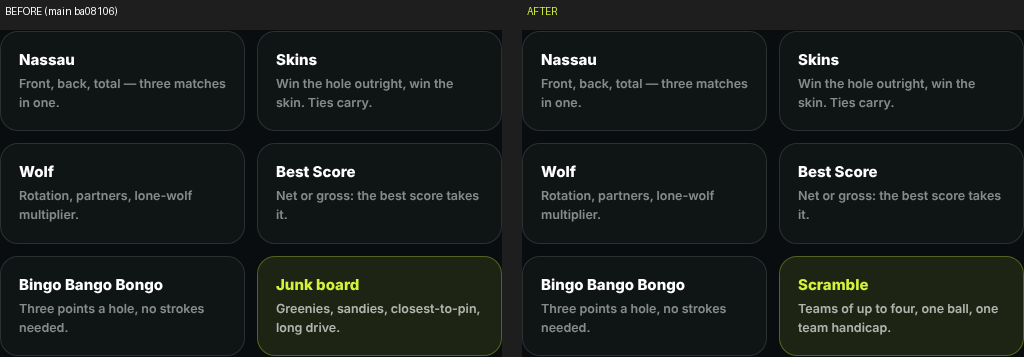
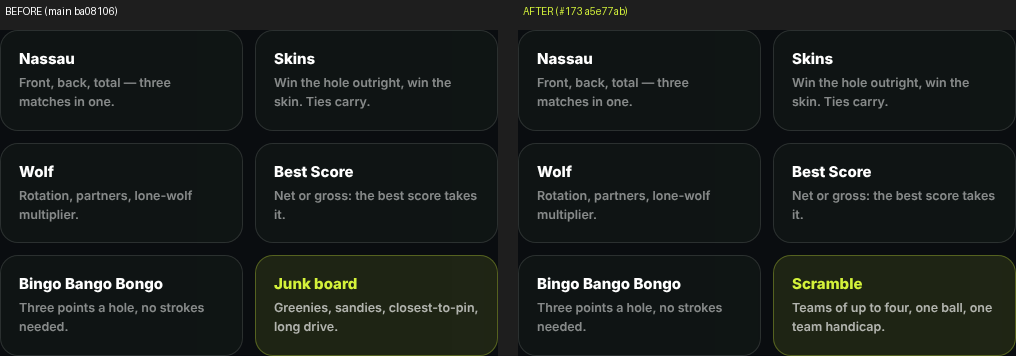
Refresh #173 screenshots after the owner's review round

diff --git a/README.md b/README.md
@@ -1,0 +1,8 @@
+# Screenshots for soleman23/golowebsite#173
+
+Before = `main` at ba08106. After = `fix/junk-board-overclaim` at a5e77ab, after the owner's review round.
+Production builds, 1440 px viewport; mockups captured by their accessible name, feature blocks by their kicker.
+
+- compare-setup.png, compare-game-library.png, compare-locker.png: mockup cards
+- compare-scoring-features.png, compare-settle-features.png, compare-settle-home.png: phone mockups
+- compare-features-hero.png, compare-block-*.png: /features hero and the Game Library, Immersive Scoring, Live Leaderboard and Auto Settle-up blocks
